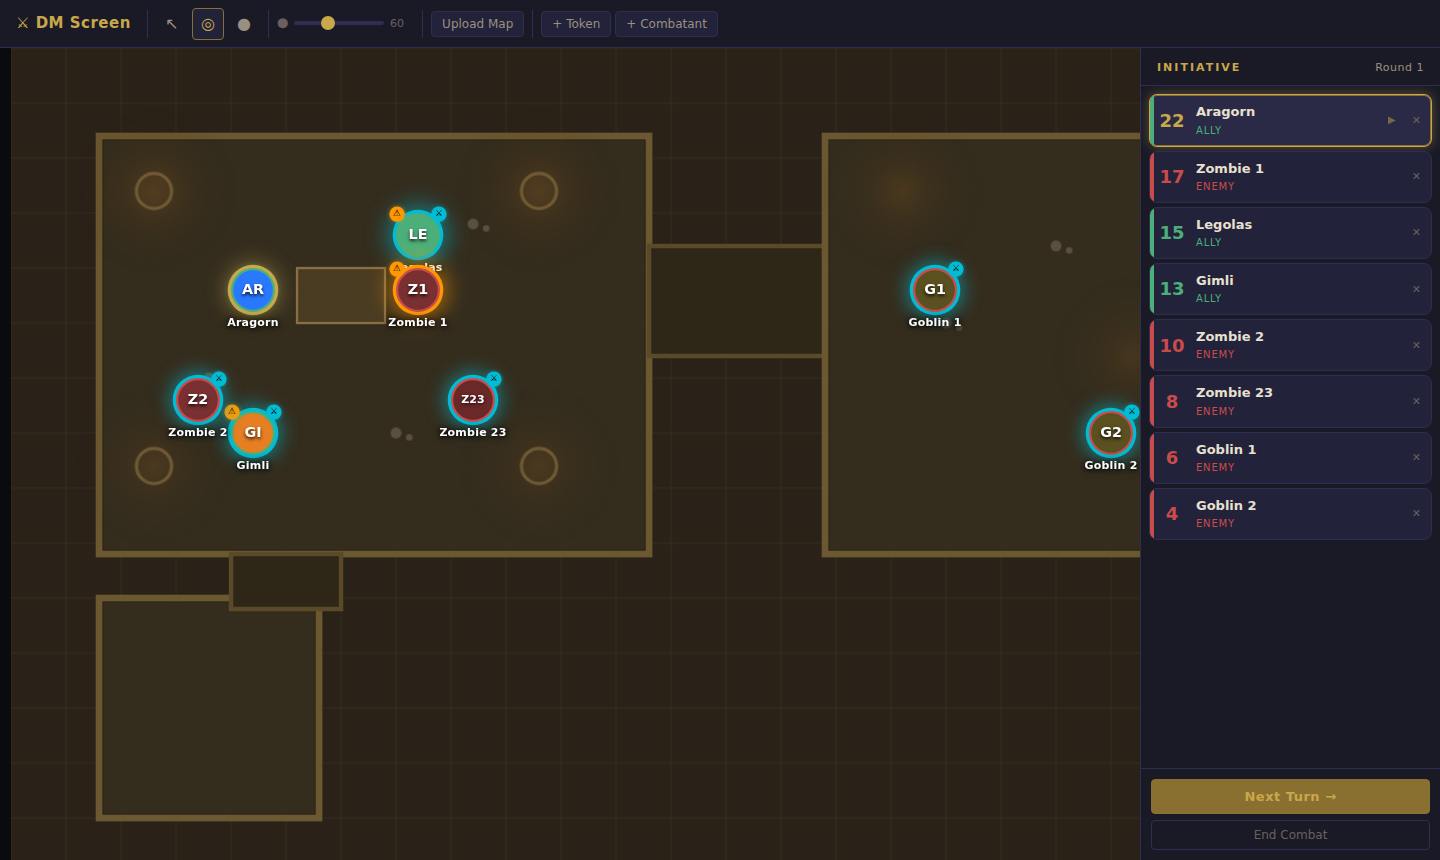
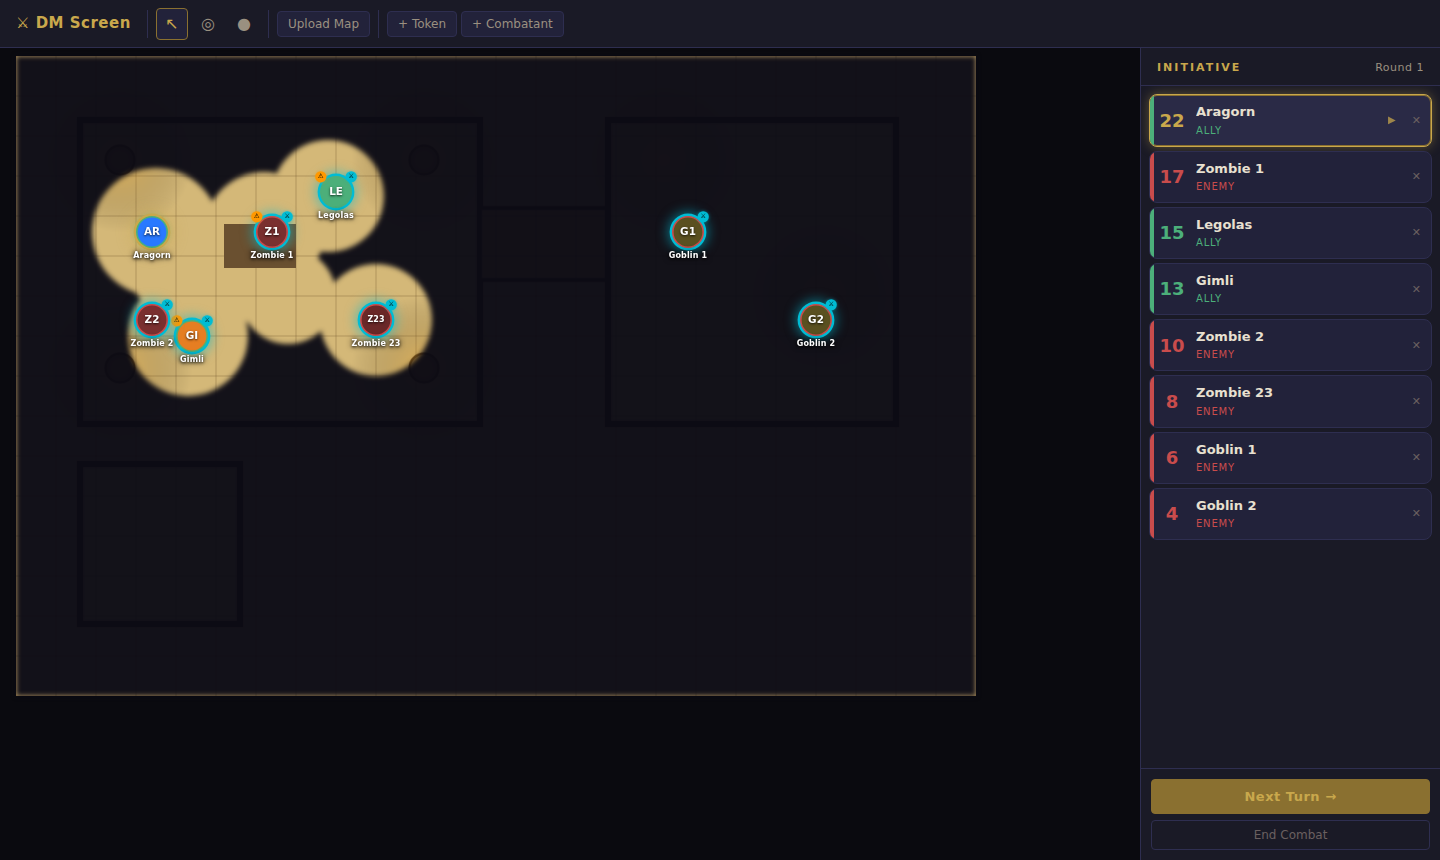
Remove flanking detection; update screenshots and README
- Drop flanking feature entirely (indicators were incorrect)
- Remove flankingUtils.ts, flanking CSS vars/animations, flanking props
- Replace screenshots with corrected ones showing fog of war clearly
- Update README to remove flanking section

https://claude.ai/code/session_01J5zgAzV4sySU1K4wKTsyx6

diff --git a/src/components/MapView/Token.tsx b/src/components/MapView/Token.tsx
@@ -2,18 +2,26 @@ import { useState, useCallback } from 'react';
 import { useStore } from '../../store/useStore';
 import type { Token as TokenType } from '../../store/useStore';
 import { useDrag } from '../../hooks/useDrag';
-import { getTokenLabel } from '../../utils/flankingUtils';
 
 const TOKEN_SIZE = 40;
+
+function getTokenLabel(name: string): string {
+  const parts = name.trim().split(/\s+/);
+  if (parts.length === 1) return parts[0].slice(0, 2).toUpperCase();
+  const firstChar = parts[0][0].toUpperCase();
+  const lastPart = parts[parts.length - 1];
+  if (/^\d+$/.test(lastPart)) {
+    return (firstChar + lastPart).slice(0, 3);
+  }
+  return (firstChar + lastPart[0]).toUpperCase();
+}
 
 interface Props {
   token: TokenType;
   isActiveTurn: boolean;
-  isFlanking: boolean;  // this token is part of a flanking pair (has advantage)
-  isFlanked: boolean;   // this token is being flanked (defenders have disadvantage)
 }
 
-export function Token({ token, isActiveTurn, isFlanking, isFlanked }: Props) {
+export function Token({ token, isActiveTurn }: Props) {
   const removeToken = useStore((s) => s.removeToken);
   const { onPointerDown, onPointerMove, onPointerUp } = useDrag(token.id);
   const [contextMenu, setContextMenu] = useState<{ x: number; y: number } | null>(null);
@@ -32,30 +40,14 @@ export function Token({ token, isActiveTurn, isFlanking, isFlanked }: Props) {
   const label = getTokenLabel(token.name);
   const isAlly = token.type === 'ally';
   const borderColor = isAlly ? 'var(--ally-color)' : 'var(--enemy-color)';
+  const glowColor = isAlly ? 'var(--ally-glow)' : 'var(--enemy-glow)';
 
-  // Determine box-shadow based on state priority: active turn > flanking/flanked > default
-  let boxShadow: string;
-  let animation: string | undefined;
-
-  if (isActiveTurn) {
-    const baseGlow = isAlly ? 'var(--ally-glow)' : 'var(--enemy-glow)';
-    boxShadow = `0 0 0 3px var(--accent-gold), 0 0 18px 6px var(--accent-gold-glow), 0 0 6px 2px ${baseGlow}`;
-  } else if (isFlanking) {
-    // Attacker with flanking advantage — cyan pulsing ring
-    boxShadow = `0 0 0 3px var(--flank-color), 0 0 14px 5px var(--flank-glow)`;
-    animation = 'flank-pulse 1.4s ease-in-out infinite';
-  } else if (isFlanked) {
-    // Being flanked — orange warning pulse
-    boxShadow = `0 0 0 3px var(--flanked-color), 0 0 14px 5px var(--flanked-glow)`;
-    animation = 'flanked-pulse 1s ease-in-out infinite';
-  } else {
-    const baseGlow = isAlly ? 'var(--ally-glow)' : 'var(--enemy-glow)';
-    boxShadow = `0 0 6px 2px ${baseGlow}`;
-  }
+  const boxShadow = isActiveTurn
+    ? `0 0 0 3px var(--accent-gold), 0 0 18px 6px var(--accent-gold-glow), 0 0 6px 2px ${glowColor}`
+    : `0 0 6px 2px ${glowColor}`;
 
   return (
     <>
-      {/* Wrapper — positioned at token coords, no overflow:hidden so the label is visible */}
       <div
         style={{
           position: 'absolute',
@@ -66,7 +58,7 @@ export function Token({ token, isActiveTurn, isFlanking, isFlanked }: Props) {
           zIndex: 2,
         }}
       >
-        {/* Circle — the draggable interactive element */}
+        {/* Circle */}
         <div
           onPointerDown={onPointerDown}
           onPointerMove={onPointerMove}
@@ -86,8 +78,7 @@ export function Token({ token, isActiveTurn, isFlanking, isFlanked }: Props) {
             pointerEvents: 'auto',
             overflow: 'hidden',
             boxShadow,
-            animation,
-            transition: isActiveTurn || isFlanking || isFlanked ? undefined : 'box-shadow 0.2s',
+            transition: 'box-shadow 0.2s',
             fontSize: label.length > 2 ? 10 : 13,
             fontWeight: 700,
             color: '#fff',
@@ -107,59 +98,7 @@ export function Token({ token, isActiveTurn, isFlanking, isFlanked }: Props) {
           )}
         </div>
 
-        {/* Flanking badges */}
-        {isFlanking && !isActiveTurn && (
-          <div
-            style={{
-              position: 'absolute',
-              top: -6,
-              right: -6,
-              width: 14,
-              height: 14,
-              borderRadius: '50%',
-              background: 'var(--flank-color)',
-              display: 'flex',
-              alignItems: 'center',
-              justifyContent: 'center',
-              fontSize: 8,
-              color: '#000',
-              fontWeight: 900,
-              pointerEvents: 'none',
-              zIndex: 3,
-              boxShadow: '0 0 4px var(--flank-glow)',
-            }}
-            title="Flanking — advantage on attacks"
-          >
-            ⚔
-          </div>
-        )}
-        {isFlanked && (
-          <div
-            style={{
-              position: 'absolute',
-              top: -6,
-              left: -6,
-              width: 14,
-              height: 14,
-              borderRadius: '50%',
-              background: 'var(--flanked-color)',
-              display: 'flex',
-              alignItems: 'center',
-              justifyContent: 'center',
-              fontSize: 8,
-              color: '#000',
-              fontWeight: 900,
-              pointerEvents: 'none',
-              zIndex: 3,
-              boxShadow: '0 0 4px var(--flanked-glow)',
-            }}
-            title={isAlly ? 'Flanked — enemies have advantage!' : 'Flanked by allies'}
-          >
-            ⚠
-          </div>
-        )}
-
-        {/* Name label below the circle */}
+        {/* Name label below */}
         <div
           style={{
             position: 'absolute',

diff --git a/src/components/MapView/TokenLayer.tsx b/src/components/MapView/TokenLayer.tsx
@@ -1,7 +1,5 @@
-import { useMemo } from 'react';
 import { useStore } from '../../store/useStore';
 import { Token } from './Token';
-import { detectFlanking } from '../../utils/flankingUtils';
 
 export function TokenLayer() {
   const tokens = useStore((s) => s.tokens);
@@ -15,9 +13,6 @@ export function TokenLayer() {
     combatActive && combatants.length > 0
       ? combatants[currentTurnIndex % combatants.length]?.tokenId
       : undefined;
-
-  // Recompute flanking whenever token positions change
-  const { flankedIds, flankingIds } = useMemo(() => detectFlanking(tokens), [tokens]);
 
   return (
     <div
@@ -36,8 +31,6 @@ export function TokenLayer() {
           key={token.id}
           token={token}
           isActiveTurn={combatActive && activeTokenId === token.id}
-          isFlanking={flankingIds.has(token.id)}
-          isFlanked={flankedIds.has(token.id)}
         />
       ))}
     </div>

diff --git a/src/index.css b/src/index.css
@@ -27,10 +27,6 @@
 
   --fog-color: rgba(8, 8, 20, 0.92);
 
-  --flank-color: #00bcd4;
-  --flank-glow: rgba(0, 188, 212, 0.55);
-  --flanked-color: #ff9800;
-  --flanked-glow: rgba(255, 152, 0, 0.55);
 
   --radius-sm: 4px;
   --radius-md: 8px;
@@ -70,17 +66,6 @@ button {
 input, select {
   font-family: inherit;
   font-size: inherit;
-}
-
-/* Flanking animations */
-@keyframes flank-pulse {
-  0%, 100% { box-shadow: 0 0 0 3px var(--flank-color), 0 0 14px 5px var(--flank-glow); }
-  50%       { box-shadow: 0 0 0 3px var(--flank-color), 0 0 22px 8px var(--flank-glow); }
-}
-
-@keyframes flanked-pulse {
-  0%, 100% { box-shadow: 0 0 0 3px var(--flanked-color), 0 0 14px 5px var(--flanked-glow); }
-  50%       { box-shadow: 0 0 0 3px var(--flanked-color), 0 0 22px 8px var(--flanked-glow); }
 }
 
 /* Scrollbar styling */

diff --git a/README.md b/README.md
@@ -21,12 +21,6 @@ Add draggable tokens for players and enemies. Each token shows the character's i
 - **Enemies** — red-accented ring
 - **Active turn** — gold pulsing ring
 
-### Flanking Detection
-Tokens automatically detect flanking: when two tokens on the same side bracket an enemy on opposite sides (angle ≥ 120°), all three are highlighted in real time as you drag tokens around the map.
-
-- **Cyan ⚔ ring** — this token is flanking (has advantage on attacks)
-- **Orange ⚠ ring** — this token is being flanked (opponents have advantage)
-
 ### Initiative Tracker
 A BG3-style sidebar tracking turn order for combat. Add combatants with a name, initiative roll, and optional link to a map token. The active combatant's linked token gets a gold glow on the map.
 
